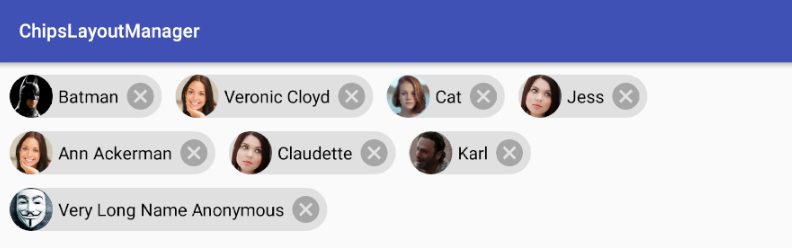
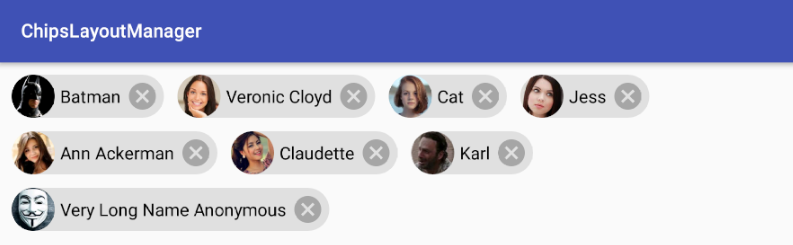
* header & sample updated

diff --git a/sample/src/main/java/beloo/recyclerviewcustomadapter/ChipsFactory.java b/sample/src/main/java/beloo/recyclerviewcustomadapter/ChipsFactory.java
@@ -39,7 +39,7 @@ public class ChipsFactory {
                 .build());
 
         chipsList.add(ChipsEntity.newBuilder()
-                .drawableResId(R.drawable.girl1)
+                .drawableResId(R.drawable.girl4)
                 .name("Ann Ackerman")
                 .build());
 
@@ -50,7 +50,7 @@ public class ChipsFactory {
 //                .build());
 
         chipsList.add(ChipsEntity.newBuilder()
-                .drawableResId(R.drawable.girl2)
+                .drawableResId(R.drawable.girl5)
                 .name("Claudette")
                 .build());
 
